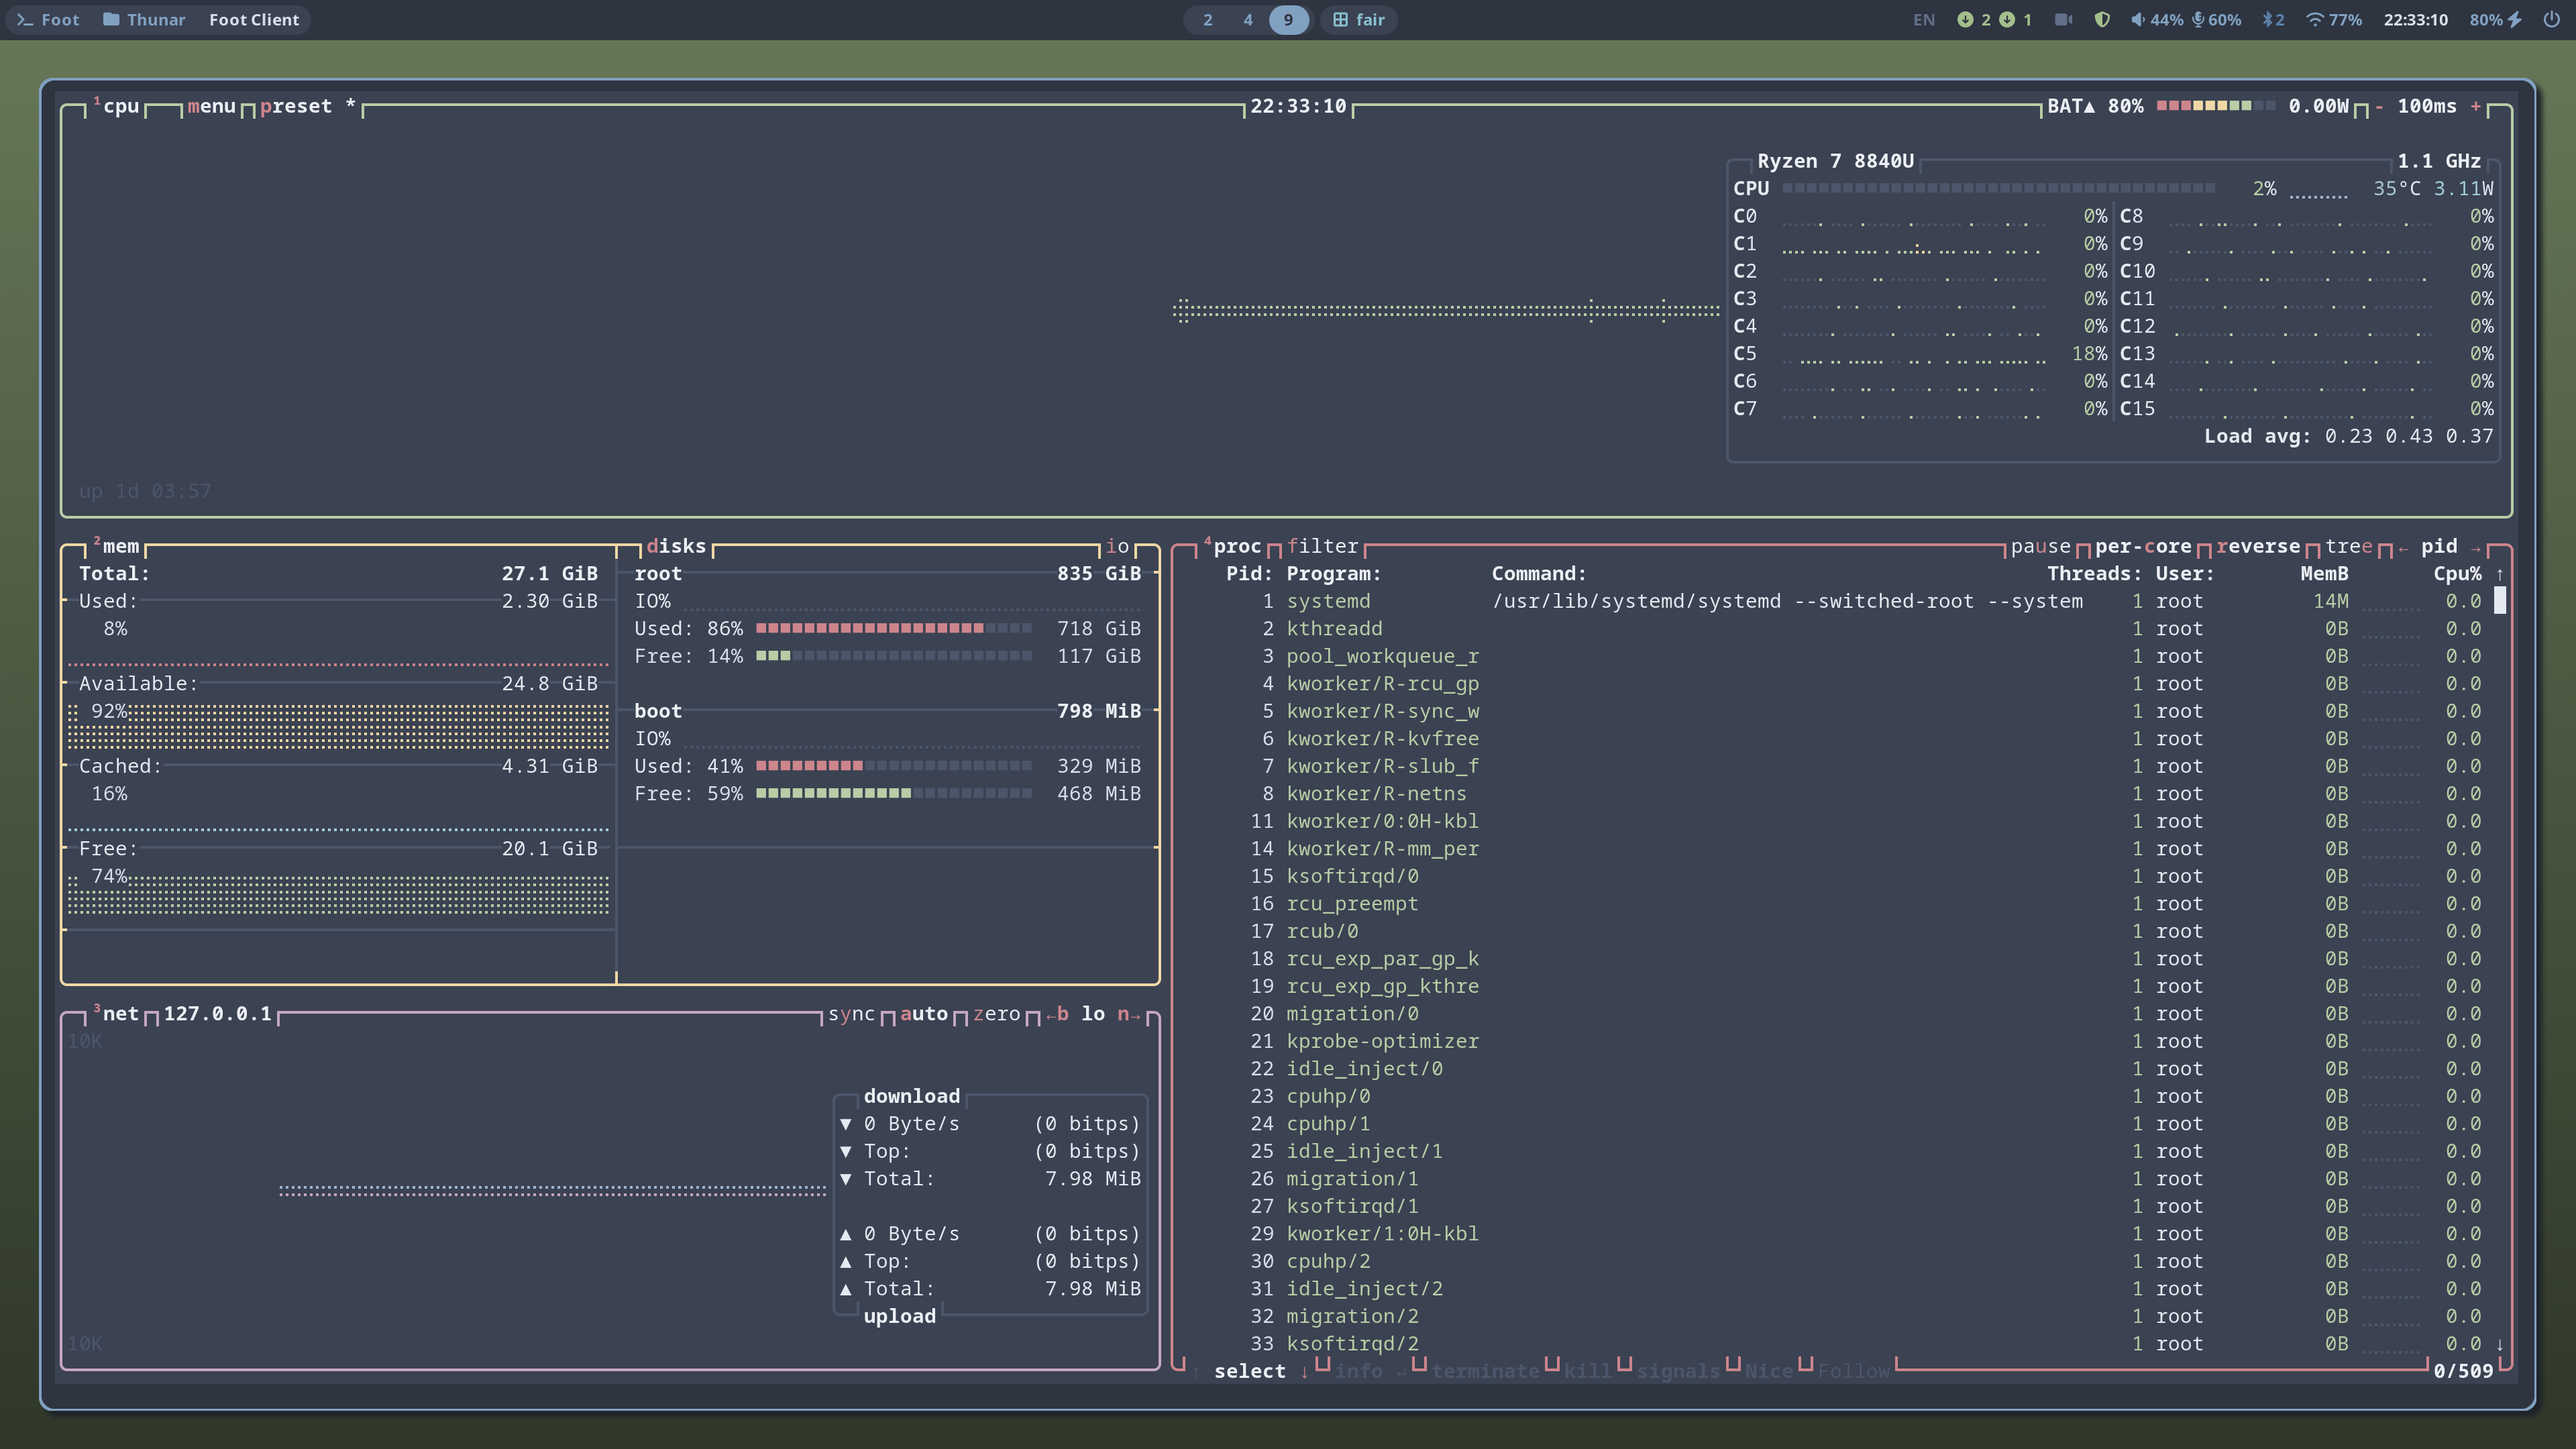
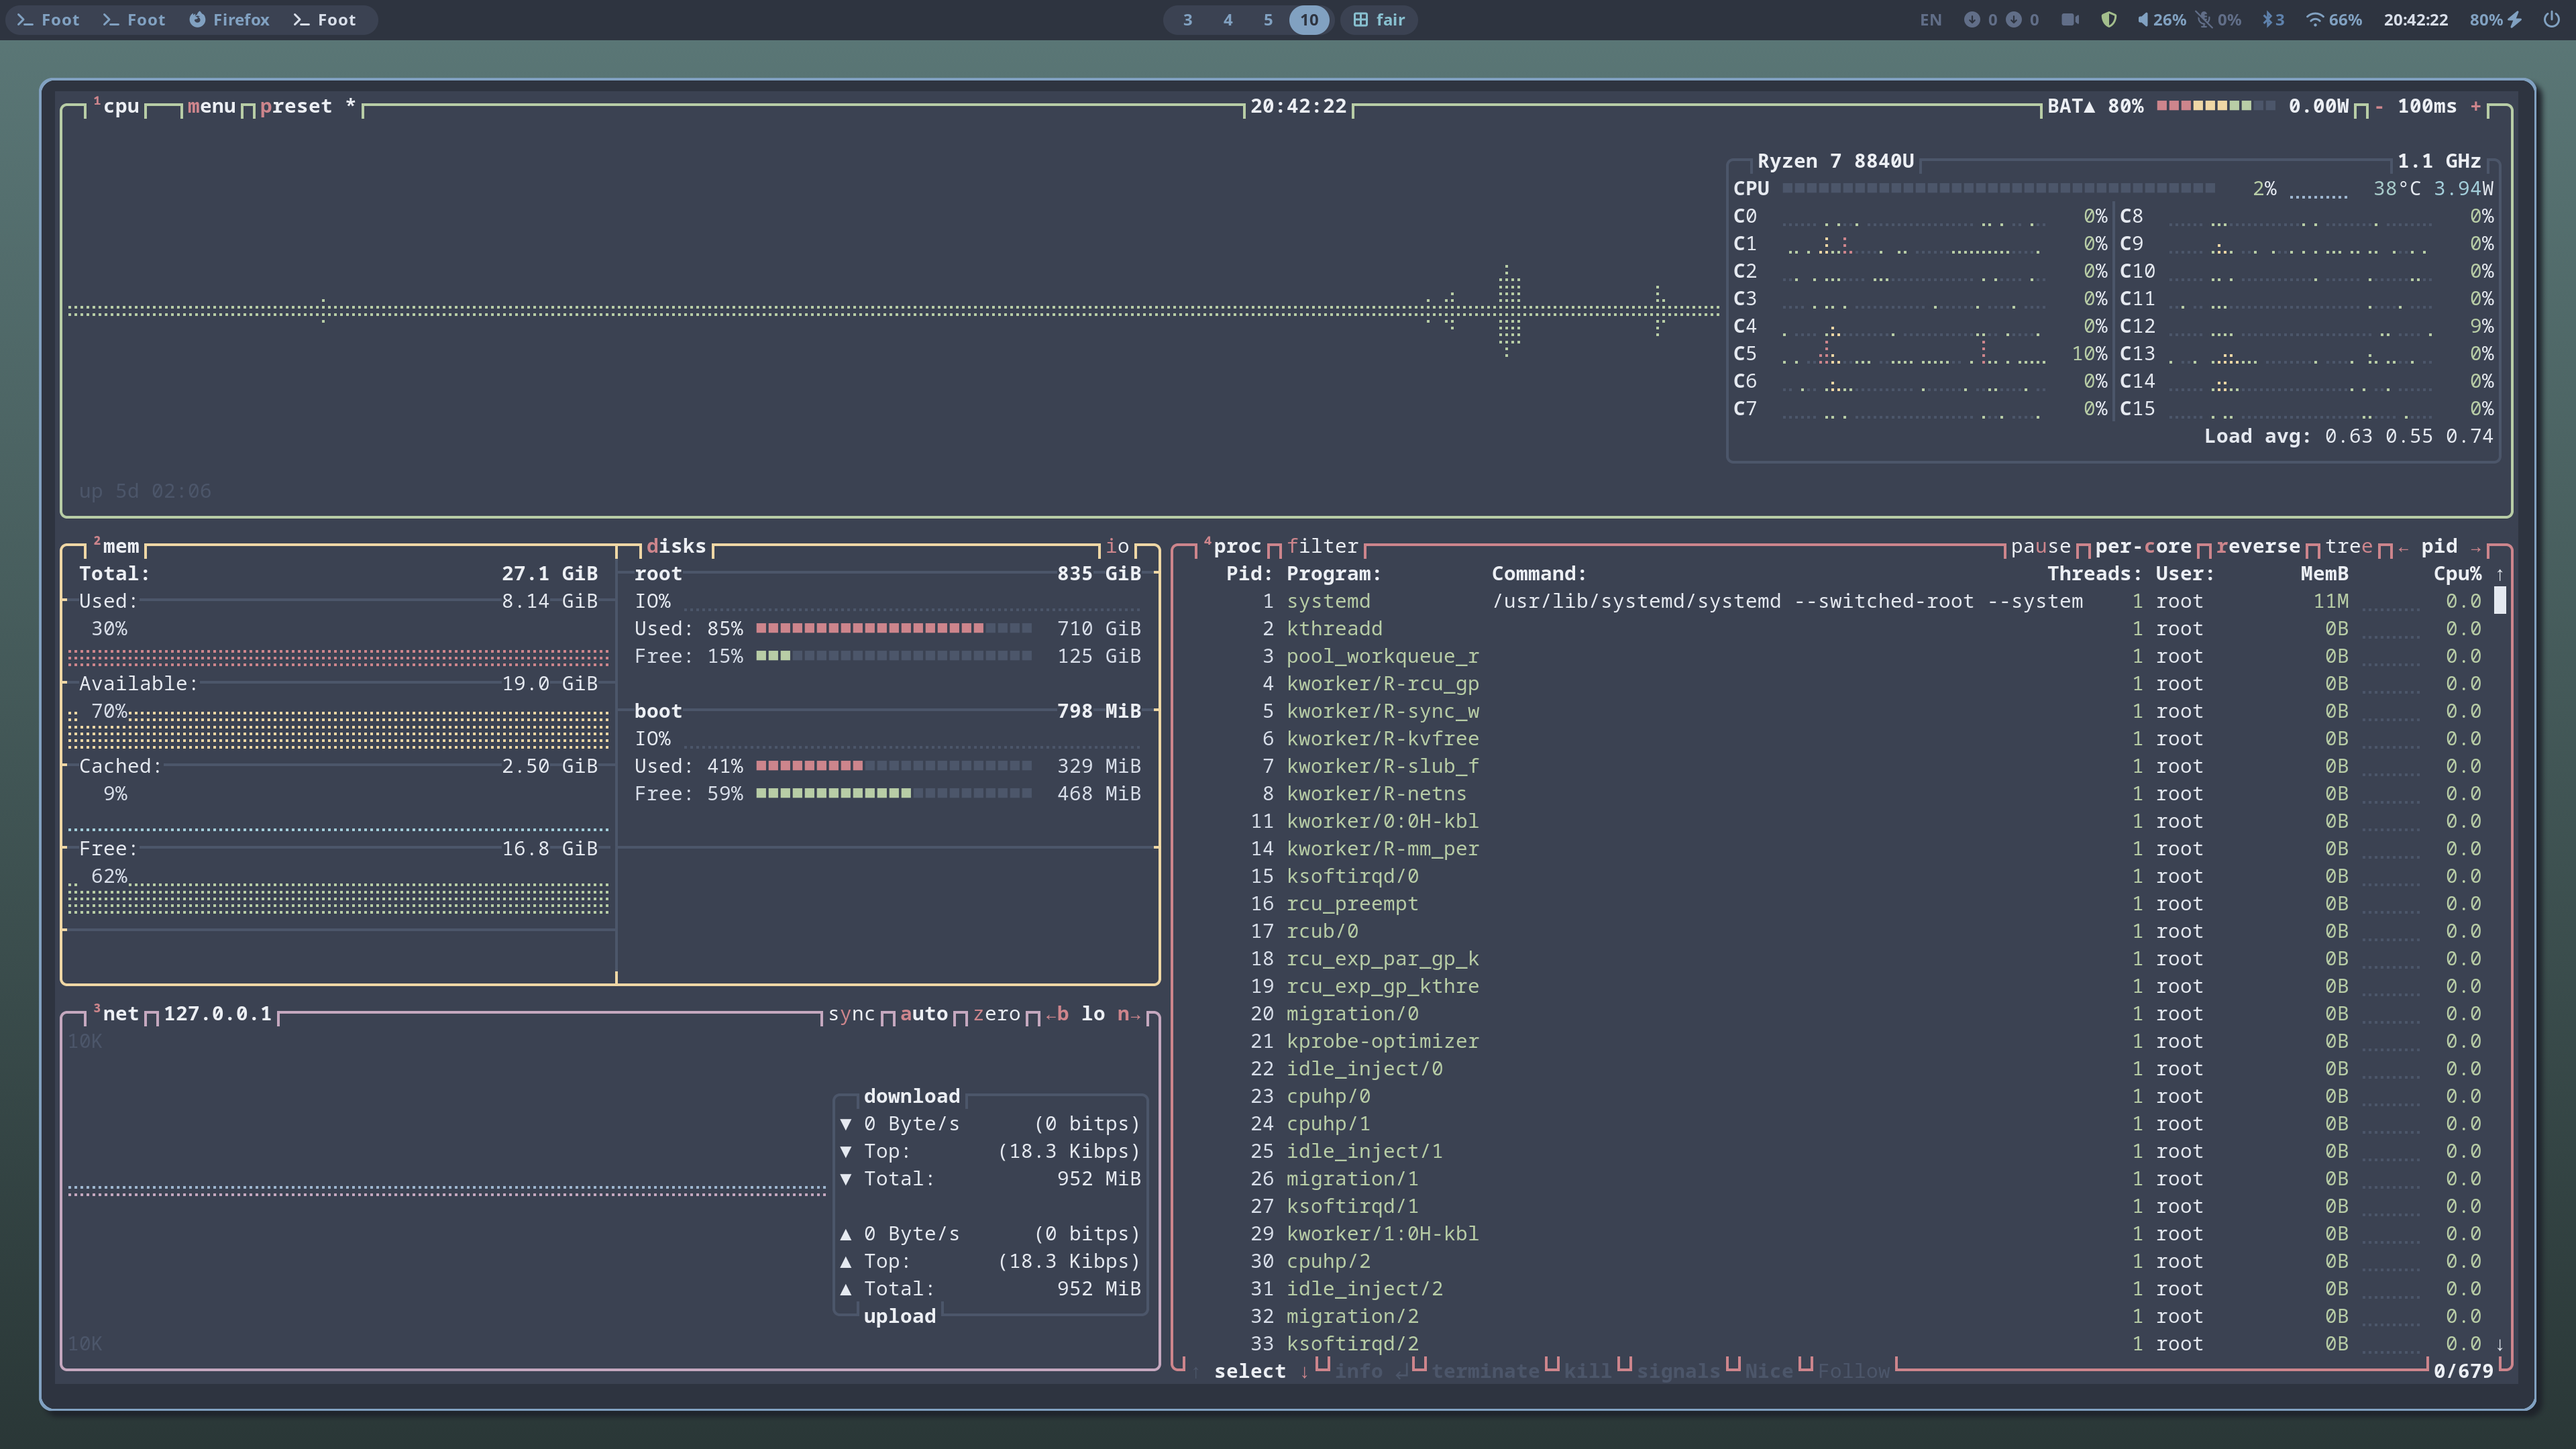
Screenshots: fuzzel menus, Firefox, homelab, btop; menu keys in the README

Changed region(s): [[0.0, 0.0, 1.0, 0.4032], [0.4062, 0.8685, 0.4375, 0.8995]]

diff --git a/README.md b/README.md
@@ -4,7 +4,7 @@ The settings behind the desktop in the pictures, for Arch Linux. Programs keep t
 whose names start with a dot (hidden files), hence "dotfiles". Here they are for:
 
 - **mango**: arranges the windows (tiling: side by side, no overlapping) and holds the keyboard shortcuts
-- **waybar**: the bar at the top, **rofi**: the app menu, **mako**: notifications
+- **waybar**: the bar at the top, **fuzzel**: the app menu and the small menus, **mako**: notifications
 - **foot**: the terminal, **bash** the shell inside it (or **zsh**, with suggestions from your history)
 - **swaylock**: the lock screen, **Thunar**: files, all in the [Nord](https://www.nordtheme.com/) colours
 
@@ -22,14 +22,20 @@ Muted sound or mic turns grey, the update counters go green, orange, red; hover 
 <table>
 <tr><td width="50%"><img src="screenshots/fastfetch.png" alt="fastfetch in foot"></td><td width="50%"><img src="screenshots/thunar.png" alt="Thunar"></td></tr>
 <tr><td>fastfetch in foot, Nord palette</td><td>Thunar; mic muted, 42 updates listed on hover</td></tr>
-<tr><td width="50%"><img src="screenshots/rofi.png" alt="rofi app launcher"></td><td width="50%"><img src="screenshots/ristretto.png" alt="Ristretto"></td></tr>
-<tr><td>rofi app launcher; webcam driver unloaded</td><td>Ristretto image viewer</td></tr>
+<tr><td width="50%"><img src="screenshots/fuzzel.png" alt="fuzzel app launcher"></td><td width="50%"><img src="screenshots/ristretto.png" alt="Ristretto"></td></tr>
+<tr><td>fuzzel app launcher</td><td>Ristretto image viewer</td></tr>
 <tr><td width="50%"><img src="screenshots/btop.png" alt="btop"></td><td width="50%"><img src="screenshots/satty.png" alt="satty"></td></tr>
-<tr><td>btop; an AUR update</td><td>satty screenshot editor; sound muted</td></tr>
+<tr><td>btop</td><td>satty screenshot editor; sound muted</td></tr>
 <tr><td width="50%"><img src="screenshots/swaylock.png" alt="swaylock lock screen"></td><td width="50%"><img src="screenshots/hyprlock.png" alt="hyprlock lock screen"></td></tr>
 <tr><td>swaylock lock screen</td><td>hyprlock lock screen, if you install it instead</td></tr>
-<tr><td width="50%"><img src="screenshots/confirm.png" alt="Reboot confirmation"></td></tr>
-<tr><td>Reboot / power off asks first (<code>power-confirm</code>); power icon on hover</td></tr>
+<tr><td width="50%"><img src="screenshots/confirm.png" alt="Reboot confirmation"></td><td width="50%"><img src="screenshots/firefox.png" alt="Firefox"></td></tr>
+<tr><td>Reboot / power off asks first in fuzzel (<code>power-confirm</code>)</td><td>Firefox with the startpage, vertical tabs collapsed</td></tr>
+<tr><td width="50%"><img src="screenshots/fuzzel-sound.png" alt="Sound output menu"></td><td width="50%"><img src="screenshots/fuzzel-bluetooth.png" alt="Bluetooth menu"></td></tr>
+<tr><td>Sound output menu (Super+Alt+S)</td><td>Bluetooth menu (Super+Alt+B)</td></tr>
+<tr><td width="50%"><img src="screenshots/fuzzel-wifi.png" alt="Wi-Fi menu"></td><td width="50%"><img src="screenshots/fuzzel-ssh.png" alt="SSH menu"></td></tr>
+<tr><td>Wi-Fi menu (Super+Alt+W), made-up network names</td><td>SSH menu with the hosts from <code>~/.ssh/config</code> (Super+Alt+Return), made-up names</td></tr>
+<tr><td width="50%"><img src="screenshots/homelab.png" alt="homelab-ssh in foot"></td></tr>
+<tr><td><a href="https://github.com/archlinux-fan/homelab-ssh">homelab-ssh</a> in foot, on tag 5</td></tr>
 </table>
 
 Screenshots are 4K (3840x2160); click one for full size.
@@ -44,6 +50,8 @@ Super is the Windows key. All of them, with comments: [.config/mango/keybindings
 |---|---|
 | Super+Return | terminal |
 | Super+Space | app menu: type a few letters, Enter starts it |
+| Super+Alt+W / B / S | Wi-Fi / Bluetooth / sound output menu |
+| Super+Alt+Return | SSH menu: the hosts from `~/.ssh/config` |
 | Super+B / T / E | browser / files / text editor |
 | Super+Q | close the window |
 | Super+F | full screen |

diff --git a/docs/index.md b/docs/index.md
@@ -4,19 +4,25 @@ screenshots:
   - { file: desktop, text: "Desktop with a Nord wallpaper and waybar" }
   - { file: fastfetch, text: "fastfetch in foot, Nord palette" }
   - { file: thunar, text: "Thunar; mic muted, 42 updates listed on hover" }
-  - { file: rofi, text: "rofi app launcher; webcam driver unloaded" }
+  - { file: fuzzel, text: "fuzzel app launcher" }
   - { file: ristretto, text: "Ristretto image viewer" }
-  - { file: btop, text: "btop; an AUR update" }
+  - { file: btop, text: "btop" }
   - { file: satty, text: "satty screenshot editor; sound muted" }
   - { file: swaylock, text: "swaylock lock screen" }
   - { file: hyprlock, text: "hyprlock lock screen, if you install it instead" }
-  - { file: confirm, text: "Reboot / power off asks first (power-confirm); power icon on hover" }
+  - { file: confirm, text: "Reboot / power off asks first in fuzzel (power-confirm)" }
+  - { file: firefox, text: "Firefox with the startpage, vertical tabs collapsed" }
+  - { file: fuzzel-sound, text: "Sound output menu (Super+Alt+S)" }
+  - { file: fuzzel-bluetooth, text: "Bluetooth menu (Super+Alt+B)" }
+  - { file: fuzzel-wifi, text: "Wi-Fi menu (Super+Alt+W), made-up network names" }
+  - { file: fuzzel-ssh, text: "SSH menu with the hosts from ~/.ssh/config (Super+Alt+Return), made-up names" }
+  - { file: homelab, text: "homelab-ssh in foot, on tag 5" }
 ---
 
 # arch-dots
 
 The settings behind this desktop for Arch Linux: mango arranges the windows side by side,
-waybar is the bar at the top, rofi the app menu, foot the terminal, all in the Nord colours.
+waybar is the bar at the top, fuzzel the app menu, foot the terminal, all in the Nord colours.
 New to Arch? [arch-install]({{ site.install_url }}) installs it step by step, these settings included.
 The keyboard shortcuts are listed in the [README]({{ site.repo_url }}#keys).
 
